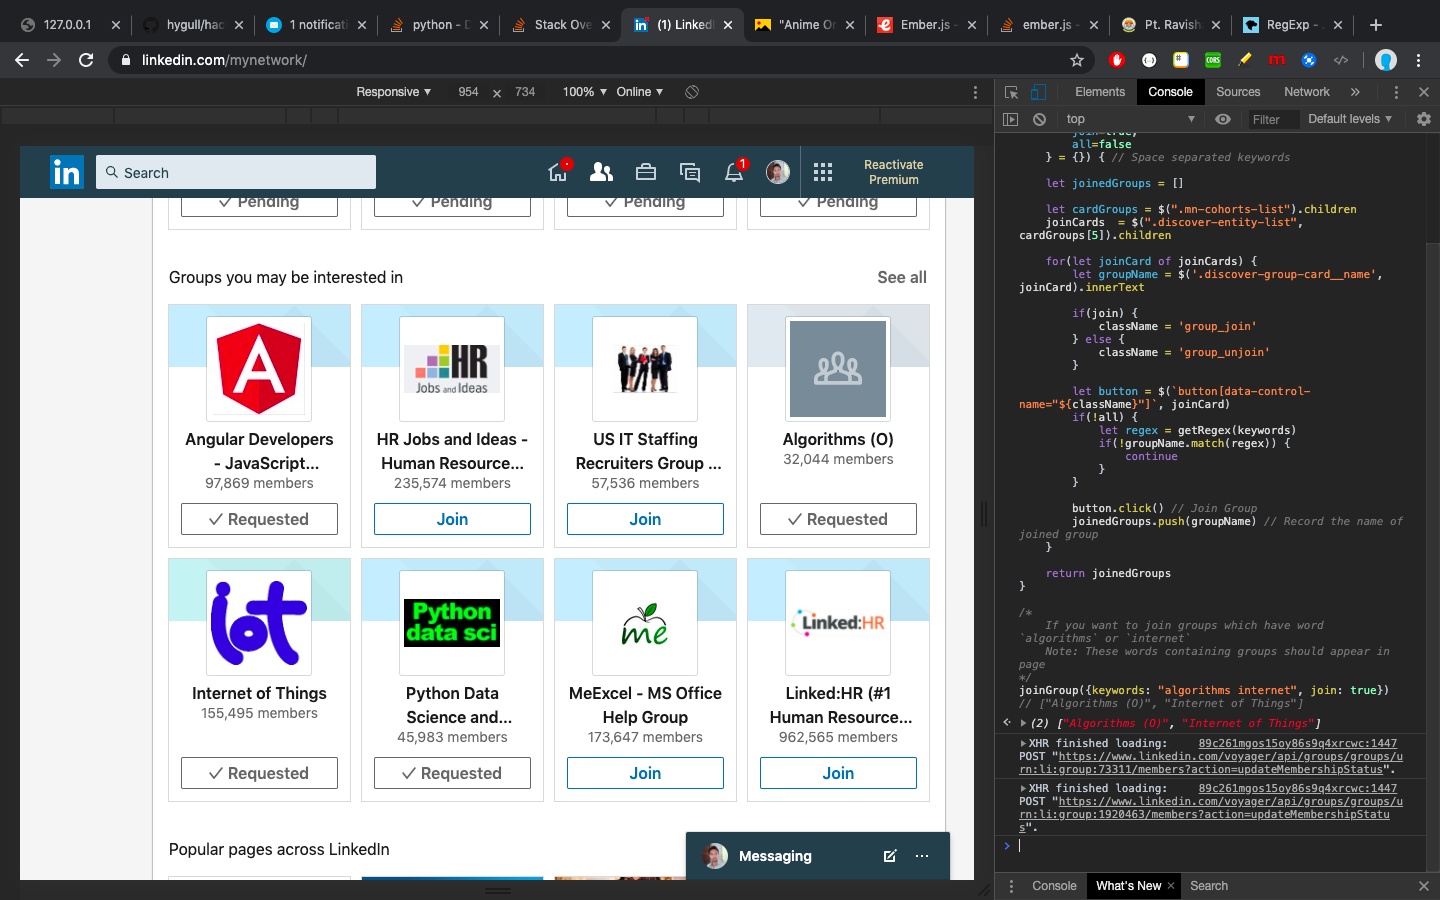
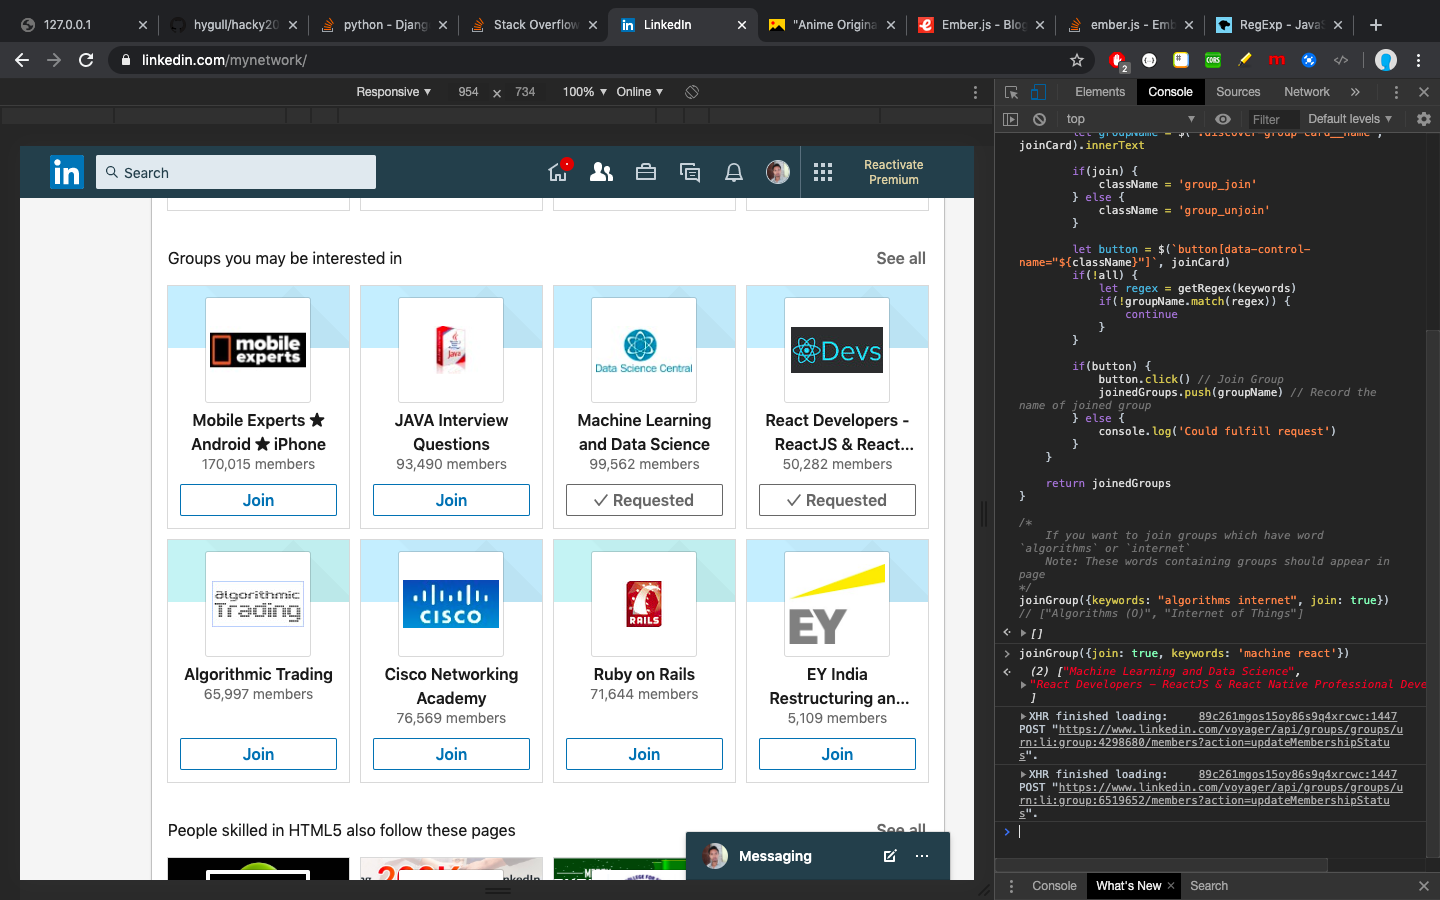
updated related join groups images

diff --git a/README.md b/README.md
@@ -207,11 +207,11 @@ joinGroup({keywords: "algorithms internet", join: true})     // Join:   ["Algori
 > **`Join Group - joinGroup({keywords: "algorithms internet", join: true})`**
 ![Hacky Image 11](./images/2020/jan/nidknil_12.png)
 
-> **`Unjoin Group - joinGroup({keywords: "algorithms internet", join: false})`**
+**`Unjoin Group - joinGroup({keywords: "algorithms internet", join: false})`**
 ![Hacky Image 11](./images/2020/jan/nidknil_13.png)
 
 > **`Join all groups (max 8 visible in page) - joinGroup({all: true, join: true})`**
-![Hacky Image 11](./images/2020/jan/nidknil_13.png)
+![Hacky Image 11](./images/2020/jan/nidknil_14.png)
 
 <hr>
 
